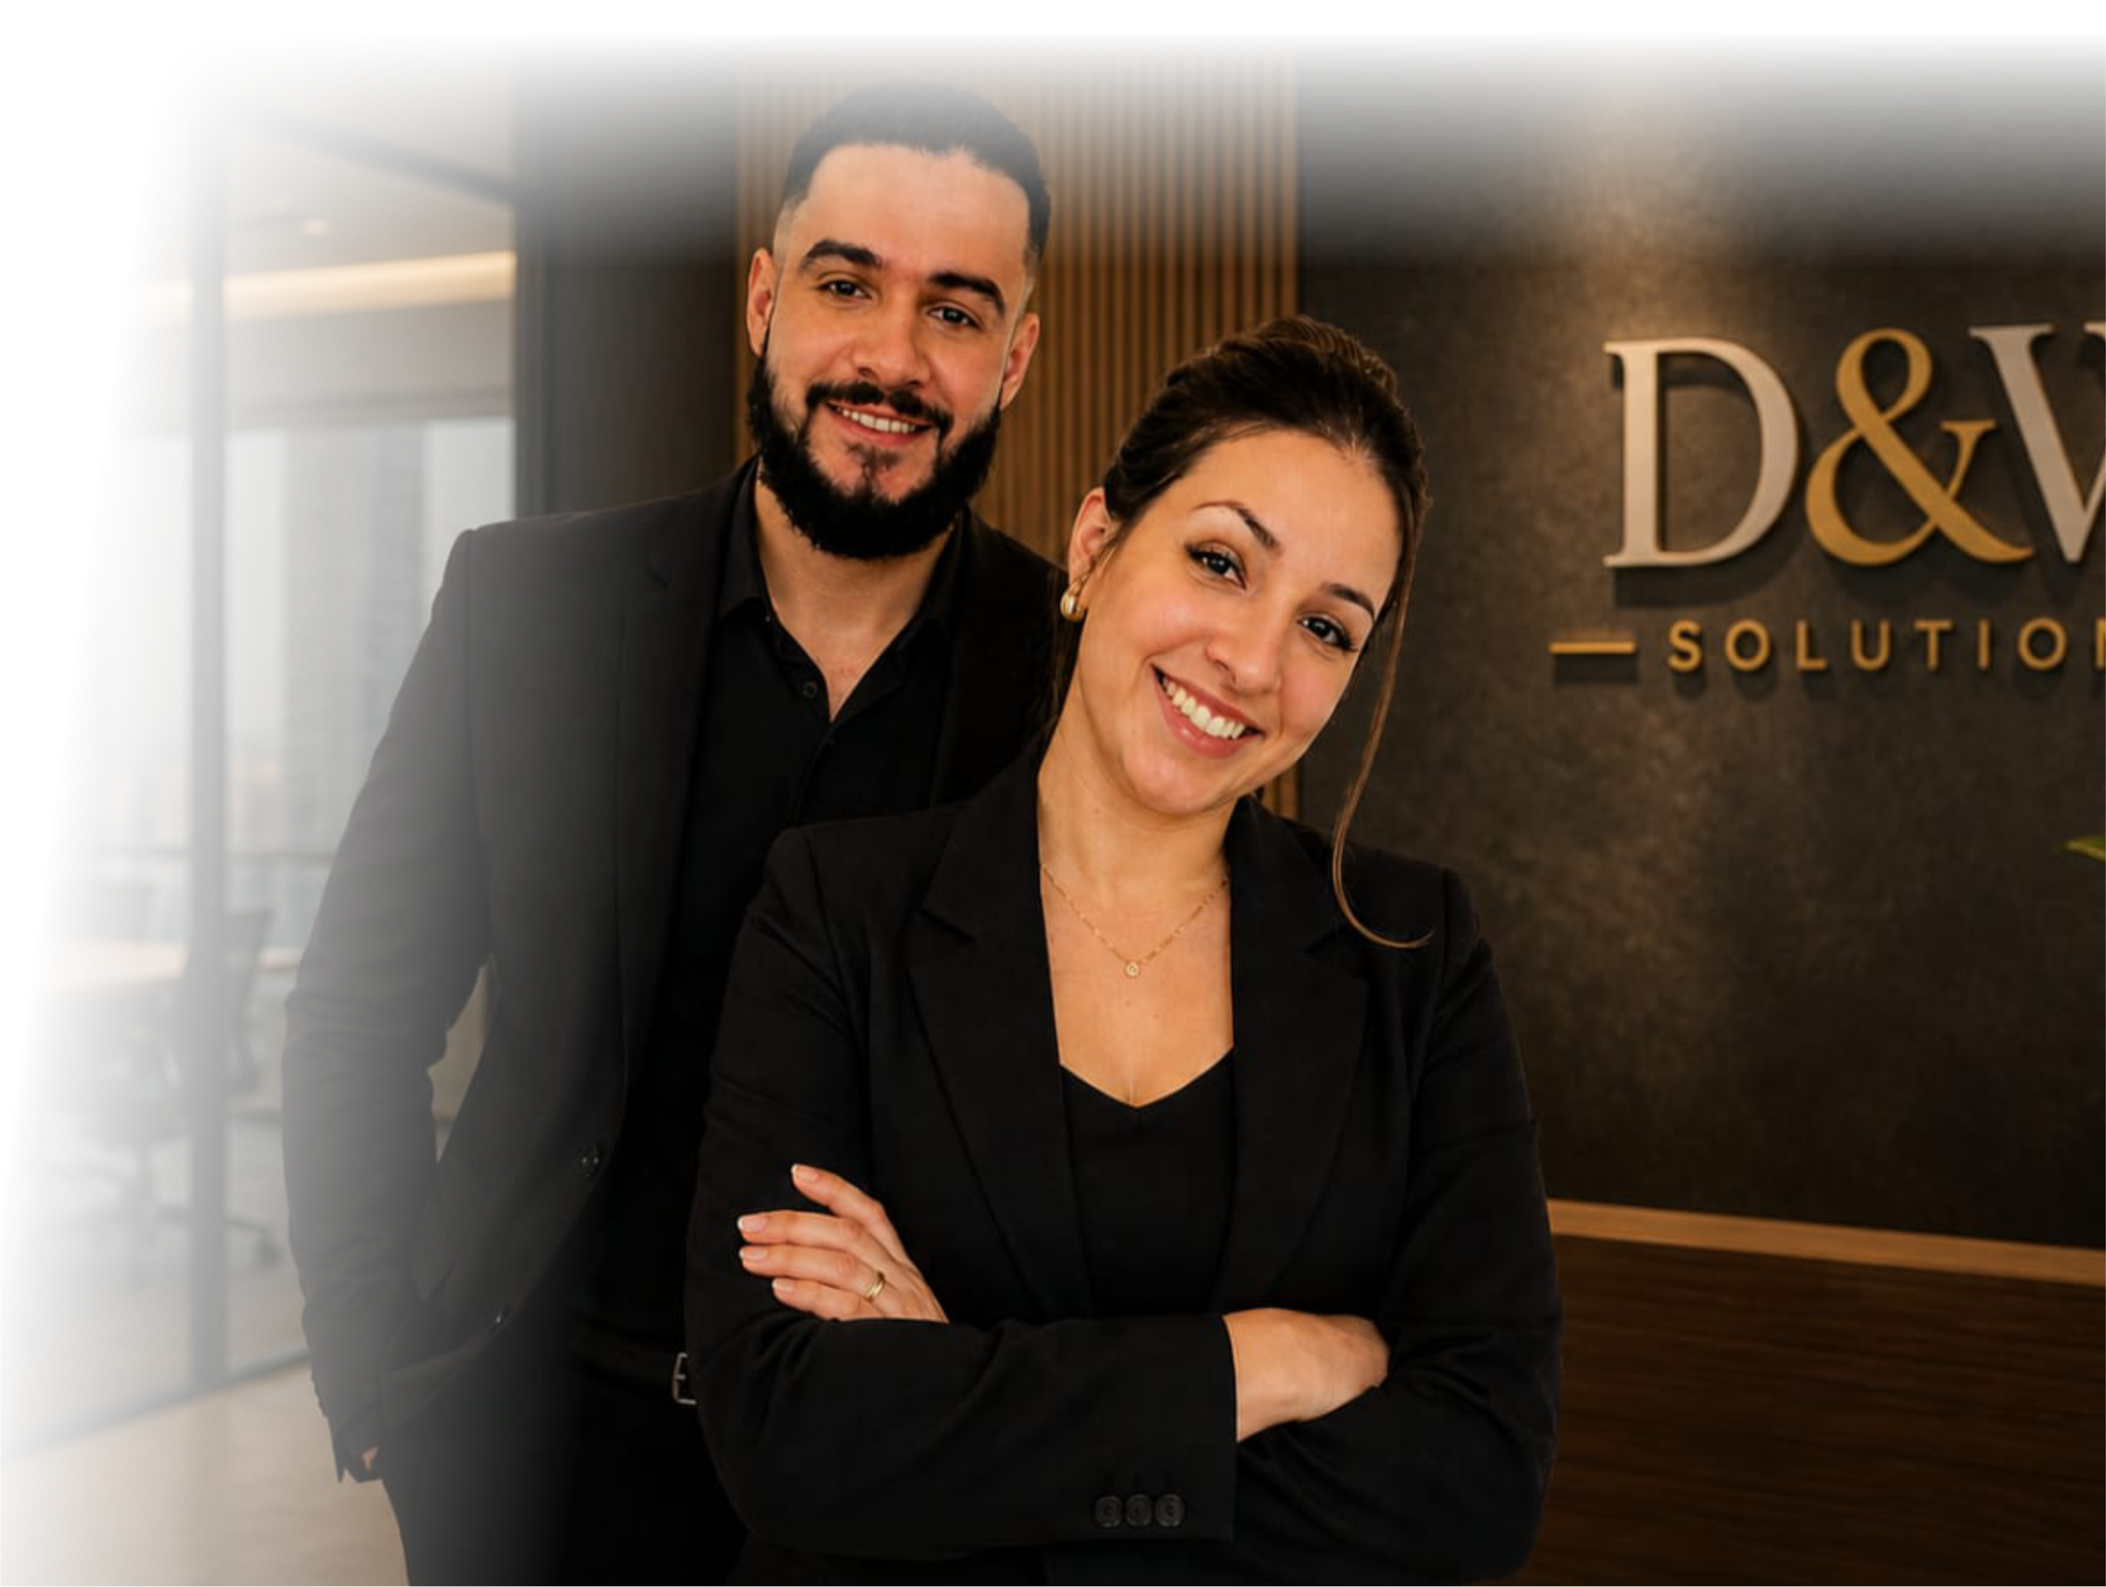
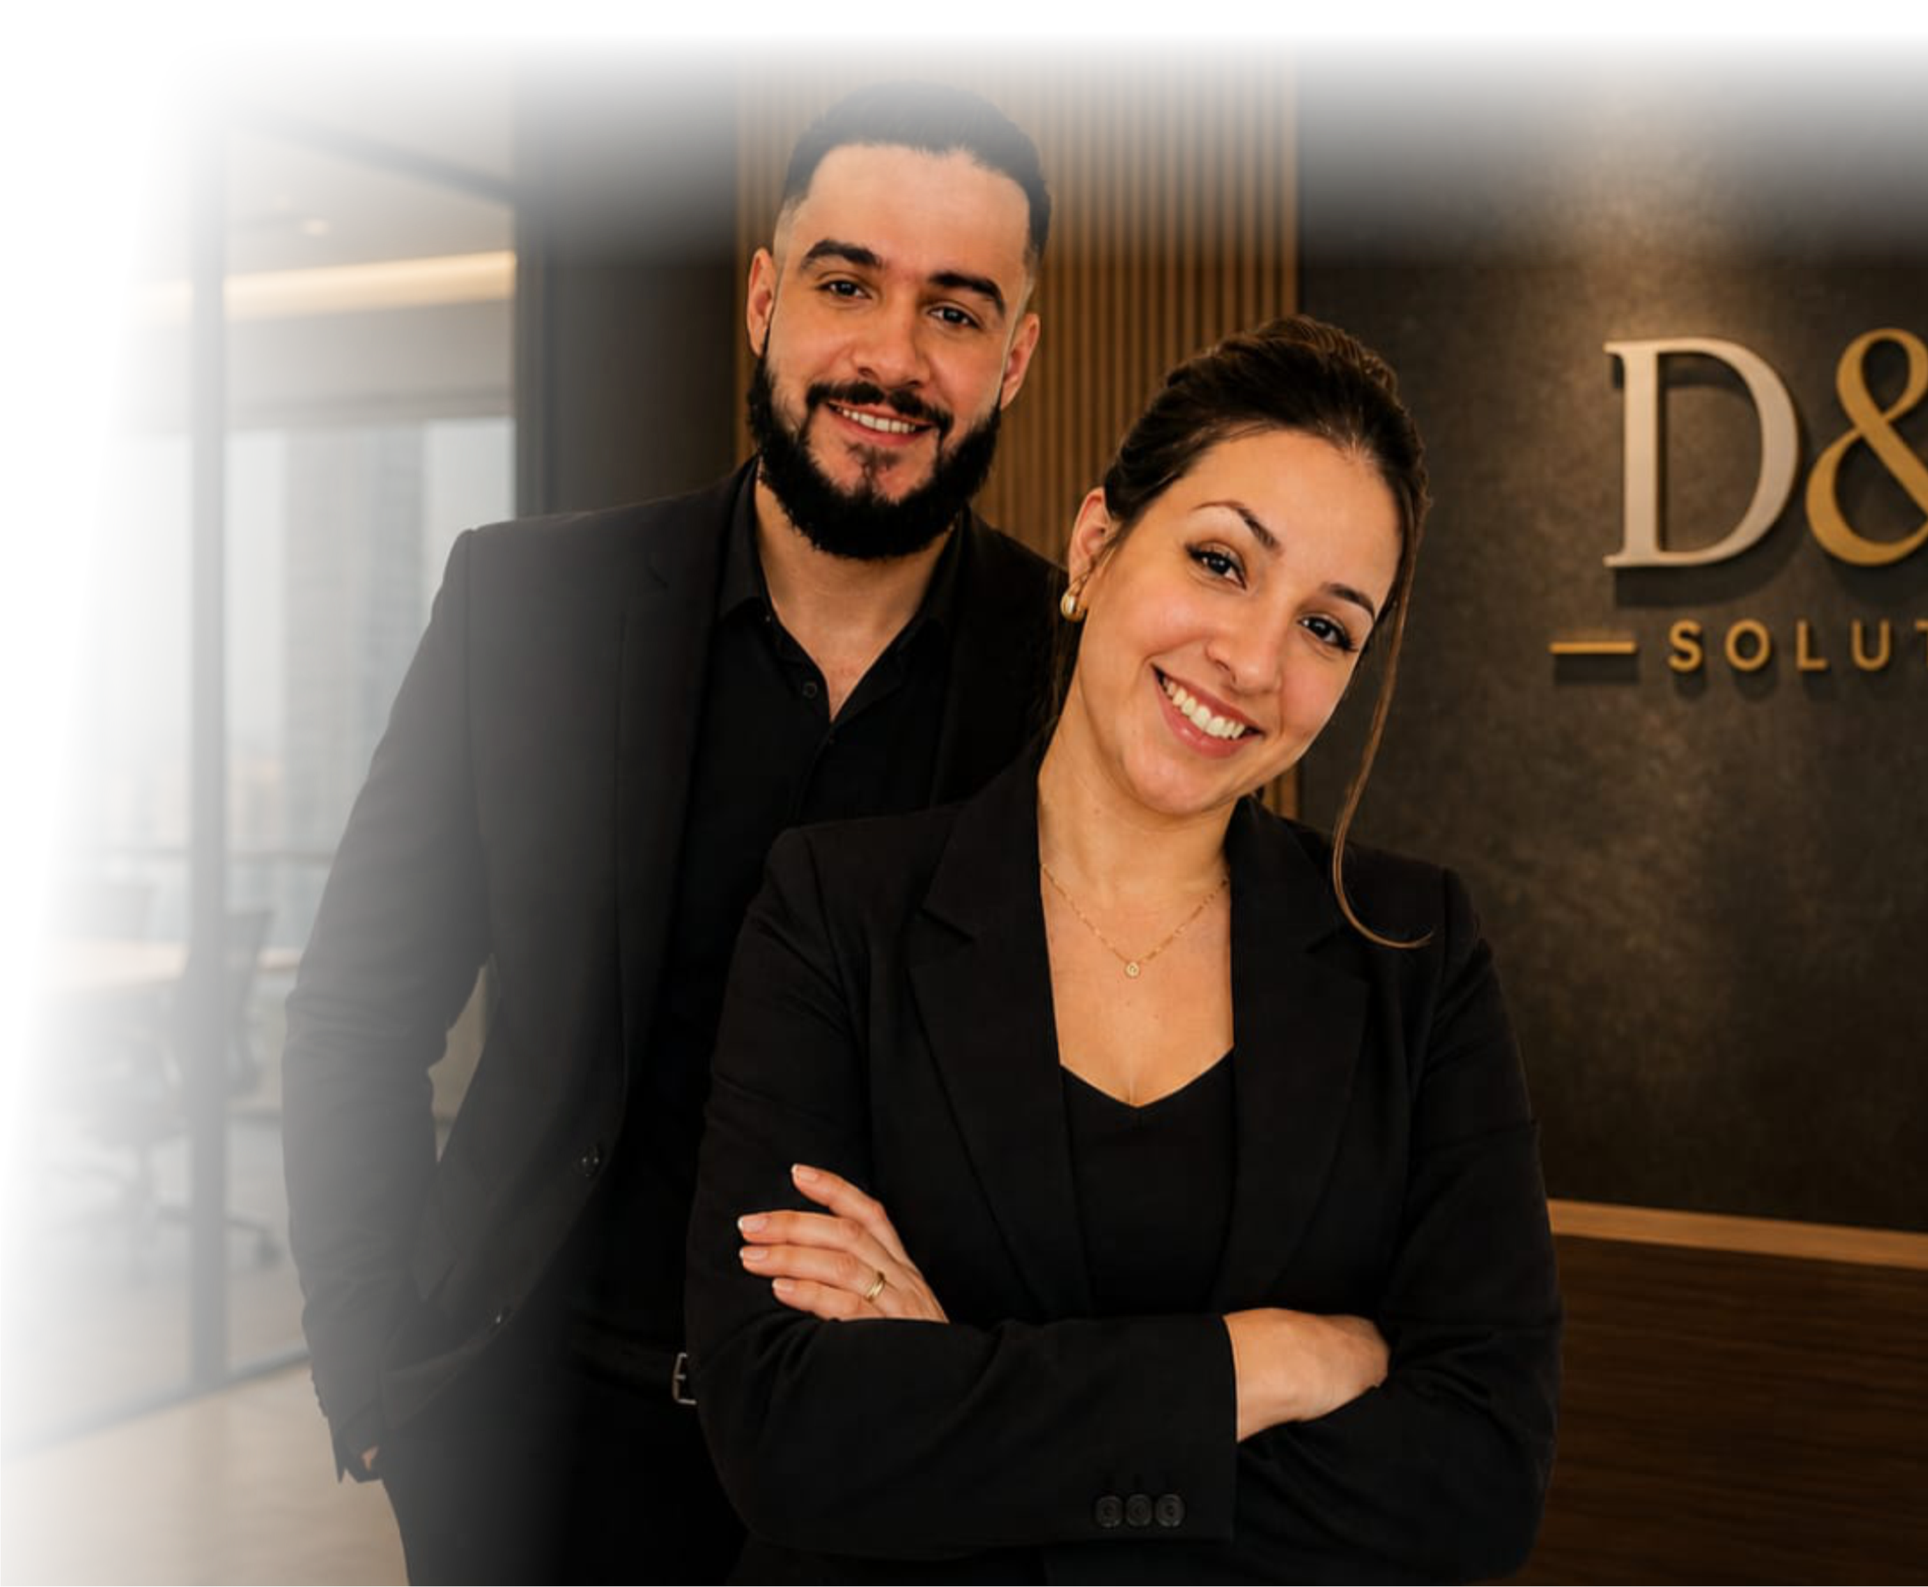
feat: implement authenticated responsive navigation header with Supabase client integration

diff --git a/src/app/(public)/termos/page.tsx b/src/app/(public)/termos/page.tsx
@@ -1,0 +1,73 @@
+import { FileText, CheckCircle, Scale, AlertTriangle, ShieldAlert } from 'lucide-react'
+
+export default function TermosPage() {
+  return (
+    <div className="max-w-4xl mx-auto px-6 py-20 space-y-16 animate-in fade-in duration-700">
+      <div className="text-center space-y-4">
+        <h1 className="text-5xl font-black text-primary tracking-tight">Termos de Uso</h1>
+        <p className="text-muted-foreground text-xl font-medium max-w-2xl mx-auto">
+          Ao utilizar a plataforma D&W Solutions, você concorda com as diretrizes e regras estabelecidas abaixo.
+        </p>
+      </div>
+
+      <div className="bg-card rounded-4xl shadow-sm border border-border overflow-hidden">
+        <div className="bg-primary p-12 text-white relative overflow-hidden">
+          <div className="absolute top-0 right-0 w-64 h-64 bg-accent opacity-20 blur-3xl -mr-32 -mt-32" />
+          <div className="flex items-center gap-6 relative">
+            <div className="w-16 h-16 bg-white/10 rounded-2xl flex items-center justify-center border border-white/20">
+              <FileText className="w-8 h-8" />
+            </div>
+            <div>
+              <h2 className="text-2xl font-bold">Acordo de Utilização</h2>
+              <p className="text-white/60 font-medium mt-1">Transparência e segurança para candidatos e empresas.</p>
+            </div>
+          </div>
+        </div>
+
+        <div className="p-12 space-y-12">
+          <section className="space-y-4">
+            <h3 className="text-xl font-bold text-primary flex items-center gap-3">
+              <CheckCircle className="w-5 h-5 text-accent" /> 1. Aceitação dos Termos
+            </h3>
+            <p className="text-muted-foreground leading-relaxed font-medium">
+              Ao acessar nosso site, você confirma que leu, entendeu e concorda em cumprir estes Termos de Uso. Estes termos podem ser atualizados periodicamente para refletir melhorias em nossos serviços.
+            </p>
+          </section>
+
+          <section className="space-y-4">
+            <h3 className="text-xl font-bold text-primary flex items-center gap-3">
+              <Scale className="w-5 h-5 text-accent" /> 2. Uso Responsável
+            </h3>
+            <p className="text-muted-foreground leading-relaxed font-medium">
+              A plataforma deve ser utilizada exclusivamente para fins de recrutamento, seleção e networking profissional. É proibido o uso de informações falsas, a prática de spam ou qualquer atividade que comprometa a integridade do sistema.
+            </p>
+          </section>
+
+          <section className="space-y-4">
+            <h3 className="text-xl font-bold text-primary flex items-center gap-3">
+              <ShieldAlert className="w-5 h-5 text-accent" /> 3. Propriedade Intelectual
+            </h3>
+            <p className="text-muted-foreground leading-relaxed font-medium">
+              Todo o conteúdo presente nesta plataforma, incluindo logotipos, textos e design, é de propriedade exclusiva da D&W Solutions ou de seus parceiros e está protegido por leis de direitos autorais.
+            </p>
+          </section>
+
+          <section className="space-y-4">
+            <h3 className="text-xl font-bold text-primary flex items-center gap-3">
+              <AlertTriangle className="w-5 h-5 text-accent" /> 4. Limitação de Responsabilidade
+            </h3>
+            <p className="text-muted-foreground leading-relaxed font-medium">
+              Embora trabalhemos para garantir a melhor experiência, a D&W Solutions não se responsabiliza por acordos diretos feitos entre empresas e candidatos, nem por falhas técnicas temporárias de conexão.
+            </p>
+          </section>
+        </div>
+
+        <div className="p-8 bg-muted/30 border-t border-border text-center">
+          <p className="text-xs text-muted-foreground font-bold uppercase tracking-widest">
+            Vigência a partir de: {new Date().toLocaleDateString('pt-BR', { month: 'long', year: 'numeric' })}
+          </p>
+        </div>
+      </div>
+    </div>
+  )
+}

diff --git a/src/app/(public)/page.tsx b/src/app/(public)/page.tsx
@@ -83,7 +83,7 @@ export default function LandingPage() {
     <div className="flex min-h-screen flex-col bg-background text-foreground transition-colors duration-300">
       <section
         id="home"
-        className="relative isolate min-h-[100svh] overflow-hidden bg-background pt-24 sm:pt-28"
+        className="relative isolate min-h-svh overflow-hidden bg-background pt-24 sm:pt-28"
       >
         <div className="absolute inset-y-0 right-0 left-[20%] sm:left-[24%] lg:left-[28%]">
           <Image
@@ -92,7 +92,7 @@ export default function LandingPage() {
             fill
             priority
             sizes="80vw"
-            className="translate-y-16 scale-[1.08] object-contain object-right-bottom sm:translate-y-20 sm:scale-[1.1] lg:translate-y-24 lg:scale-[1.12]"
+            className="translate-y-16 scale-[1.08] object-contain object-bottom-right sm:translate-y-20 sm:scale-[1.1] lg:translate-y-24 lg:scale-[1.12]"
           />
         </div>
 
@@ -106,7 +106,7 @@ export default function LandingPage() {
                 <Logo width={370} height={150} variant="auto" />
               </div>
 
-              <div className="max-w-[44rem] space-y-5">
+              <div className="max-w-176 space-y-5">
                 <h1 className="text-[2.7rem] font-semibold leading-[0.98] tracking-[-0.055em] text-primary dark:text-white sm:text-[3.7rem] lg:text-[4.35rem]">
                   <span className="block whitespace-nowrap">Soluções inteligentes em</span>
                   <span className="block whitespace-nowrap">
@@ -127,7 +127,7 @@ export default function LandingPage() {
                   className="gold-gradient group relative flex min-w-[240px] flex-col items-center justify-center gap-0.5 rounded-sm px-7 py-3 text-center shadow-[0_10px_35px_rgba(197,160,89,0.22)] transition-transform hover:scale-[1.01]"
                 >
                   <span className="text-[9px] font-black uppercase tracking-[0.2em] text-black/60">Para Empresas</span>
-                  <span className="flex items-center gap-2 text-sm font-bold tracking-[0.05em] text-black">
+                  <span className="flex items-center gap-2 text-sm font-bold tracking-wider text-black">
                     ANUNCIAR VAGA
                     <ArrowRight className="h-4 w-4 transition-transform group-hover:translate-x-1" />
                   </span>
@@ -137,7 +137,7 @@ export default function LandingPage() {
                   className="group relative flex min-w-[240px] flex-col items-center justify-center gap-0.5 rounded-sm border border-accent/80 bg-background/35 px-7 py-3 text-center backdrop-blur-[2px] transition-colors hover:bg-accent/10 dark:bg-black/20"
                 >
                   <span className="text-[9px] font-black uppercase tracking-[0.2em] text-accent/70">Para Talentos</span>
-                  <span className="flex items-center gap-2 text-sm font-bold tracking-[0.05em] text-accent">
+                  <span className="flex items-center gap-2 text-sm font-bold tracking-wider text-accent">
                     EXPLORAR VAGAS
                     <ArrowRight className="h-4 w-4 transition-transform group-hover:translate-x-1" />
                   </span>
@@ -207,7 +207,7 @@ export default function LandingPage() {
               return (
                 <div
                   key={service.title}
-                  className="rounded-sm border border-border bg-card p-6 shadow-[0_24px_60px_rgba(0,0,0,0.08)] transition-colors duration-300 dark:border-white/10 dark:bg-white/[0.03] dark:shadow-[0_24px_60px_rgba(0,0,0,0.2)]"
+                  className="rounded-sm border border-border bg-card p-6 shadow-[0_24px_60px_rgba(0,0,0,0.08)] transition-colors duration-300 dark:border-white/10 dark:bg-white/3 dark:shadow-[0_24px_60px_rgba(0,0,0,0.2)]"
                 >
                   <div className="mb-5 flex h-12 w-12 items-center justify-center rounded-full border border-accent/70 text-accent">
                     <Icon className="h-5 w-5" />

diff --git a/src/components/layout/Header.tsx b/src/components/layout/Header.tsx
@@ -26,7 +26,6 @@ export function Header() {
   const [isMenuOpen, setIsMenuOpen] = useState(false)
   const [scrolled, setScrolled] = useState(false)
   const { user, role } = useAuth()
-  const supabase = createClient()
 
   useEffect(() => {
     const handleScroll = () => setScrolled(window.scrollY > 18)
@@ -40,7 +39,8 @@ export function Header() {
   }, [pathname])
 
   const handleLogout = async () => {
-    await supabase.auth.signOut()
+    const supabase = createClient()
+    if (supabase) await supabase.auth.signOut()
     router.push('/login')
     router.refresh()
   }
@@ -140,7 +140,7 @@ export function Header() {
               <Link
                 key={link.href}
                 href={link.href}
-                className="rounded-lg border border-border bg-card/70 px-4 py-3 text-sm font-bold tracking-[0.1em] text-foreground dark:border-white/10 dark:bg-white/[0.03] dark:text-white/88"
+                className="rounded-lg border border-border bg-card/70 px-4 py-3 text-sm font-bold tracking-widest text-foreground dark:border-white/10 dark:bg-white/3 dark:text-white/88"
               >
                 {link.label}
               </Link>
@@ -150,24 +150,24 @@ export function Header() {
               <div className="grid grid-cols-2 gap-3">
                 <Link
                   href={candidateAreaHref}
-                  className="flex items-center justify-center gap-2 rounded-lg border border-accent/70 bg-background/30 px-4 py-3 text-sm font-bold tracking-[0.1em] text-accent dark:bg-white/[0.03]"
+                  className="flex items-center justify-center gap-2 rounded-lg border border-accent/70 bg-background/30 px-4 py-3 text-sm font-bold tracking-widest text-accent dark:bg-white/3"
                 >
                   <UserCircle2 className="h-5 w-5" />
                   PERFIL
                 </Link>
                 <button
                   onClick={handleLogout}
-                  className="flex items-center justify-center gap-2 rounded-lg border border-red-500/50 bg-red-500/10 px-4 py-3 text-sm font-bold tracking-[0.1em] text-red-600 transition-colors hover:bg-red-500/20 dark:text-red-400"
+                  className="flex items-center justify-center gap-2 rounded-lg border border-red-500/50 bg-red-500/10 px-4 py-3 text-sm font-bold tracking-widest text-red-600 transition-colors hover:bg-red-500/20 dark:text-red-400"
                 >
                   <LogOut className="h-5 w-5" />
                   SAIR
                 </button>
               </div>
             ) : (
-              <Link
-                href="/login"
-                className="rounded-lg border border-accent/70 bg-background/30 px-4 py-3 text-sm font-bold tracking-[0.1em] text-accent dark:bg-white/[0.03]"
-              >
+                <Link
+                  href="/login"
+                  className="rounded-lg border border-accent/70 bg-background/30 px-4 py-3 text-sm font-bold tracking-widest text-accent dark:bg-white/3"
+                >
                 ÁREA DO CANDIDATO
               </Link>
             )}

diff --git a/src/app/(public)/layout.tsx b/src/app/(public)/layout.tsx
@@ -27,7 +27,7 @@ export default function PublicLayout({
         target="_blank"
         rel="noopener noreferrer"
         aria-label="Fale conosco no WhatsApp"
-        className="fixed bottom-5 right-5 z-[70] rounded-full transition-transform hover:scale-105 sm:bottom-6 sm:right-6"
+        className="fixed bottom-5 right-5 z-70 rounded-full transition-transform hover:scale-105 sm:bottom-6 sm:right-6"
       >
         <span className="absolute inset-0 rounded-full bg-[#25D366]/20 blur-xl animate-whatsapp-pulse" />
         <span className="absolute inset-0 rounded-full border border-[#25D366]/25 animate-whatsapp-ring" />
@@ -102,6 +102,14 @@ export default function PublicLayout({
                   className="text-sm font-medium text-muted-foreground transition-colors hover:text-accent"
                 >
                   Fale conosco
+                </Link>
+              </li>
+              <li>
+                <Link
+                  href="/termos"
+                  className="text-sm font-medium text-muted-foreground transition-colors hover:text-accent"
+                >
+                  Termos de Uso
                 </Link>
               </li>
               <li>

diff --git a/src/app/admin/dashboard/page.tsx b/src/app/admin/dashboard/page.tsx
@@ -119,7 +119,7 @@ export default async function AdminDashboard() {
 
       <div className="grid grid-cols-1 gap-6 lg:grid-cols-2">
         {/* Últimas candidaturas */}
-        <div className="flex flex-col rounded-[2rem] border border-border bg-card p-6 shadow-sm">
+        <div className="flex flex-col rounded-4xl border border-border bg-card p-6 shadow-sm">
           <div className="mb-6 flex items-center justify-between">
             <h2 className="flex items-center gap-2 text-base font-black text-primary">
               <Clock className="h-4 w-4 text-accent" /> Últimas candidaturas
@@ -166,7 +166,7 @@ export default async function AdminDashboard() {
         </div>
 
         {/* Ações rápidas */}
-        <div className="relative overflow-hidden rounded-[2rem] bg-primary p-8 text-primary-foreground shadow-xl">
+        <div className="relative overflow-hidden rounded-4xl bg-primary p-8 text-primary-foreground shadow-xl">
           <div className="absolute right-0 top-0 -mr-24 -mt-24 h-48 w-48 bg-accent opacity-20 blur-3xl" />
           <div className="relative space-y-6">
             <div className="space-y-2">

diff --git a/src/utils/supabase/client.ts b/src/utils/supabase/client.ts
@@ -1,8 +1,11 @@
 import { createBrowserClient } from '@supabase/ssr'
 
 export function createClient() {
-  return createBrowserClient(
-    process.env.NEXT_PUBLIC_SUPABASE_URL!,
-    process.env.NEXT_PUBLIC_SUPABASE_ANON_KEY!
-  )
+  const url = process.env.NEXT_PUBLIC_SUPABASE_URL
+  const key = process.env.NEXT_PUBLIC_SUPABASE_ANON_KEY
+  if (!url || !key) {
+    // During static build time env vars are not available — return a no-op stub
+    return null as unknown as ReturnType<typeof createBrowserClient>
+  }
+  return createBrowserClient(url, key)
 }

diff --git a/src/components/AuthProvider.tsx b/src/components/AuthProvider.tsx
@@ -63,7 +63,7 @@ export function AuthProvider({ children }: { children: React.ReactNode }) {
 
     const {
       data: { subscription },
-    } = supabase.auth.onAuthStateChange(async (_event, session) => {
+    } = supabase.auth.onAuthStateChange(async (_event: any, session: any) => {
       const currentUser = session?.user ?? null
       setUser(currentUser)
 
